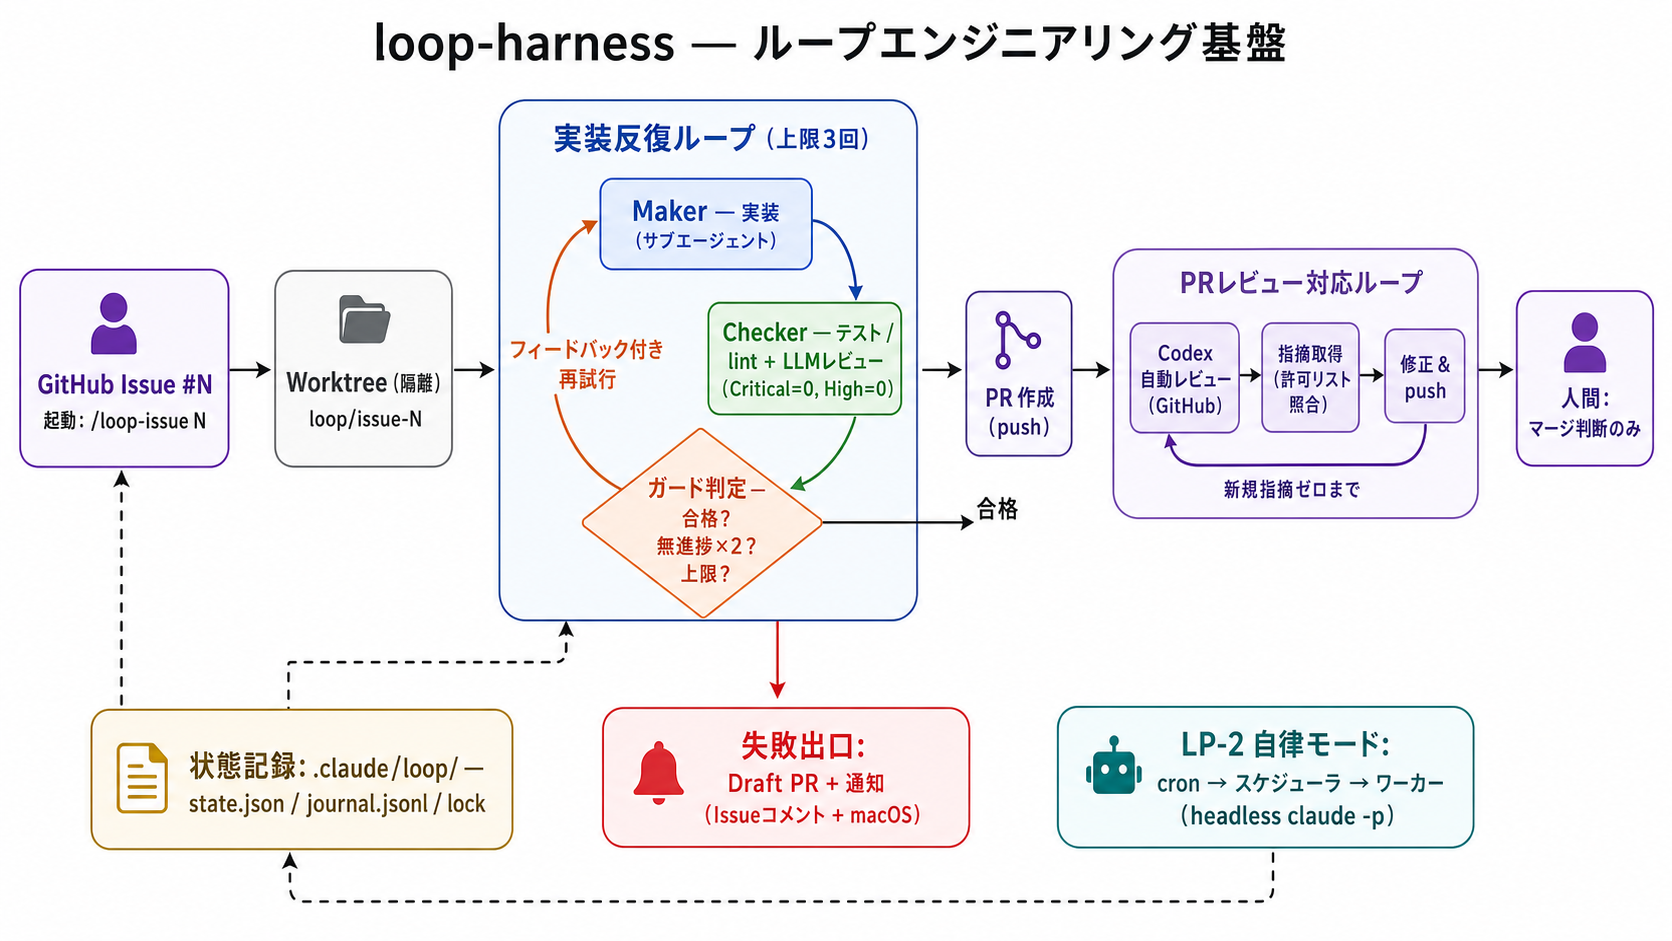
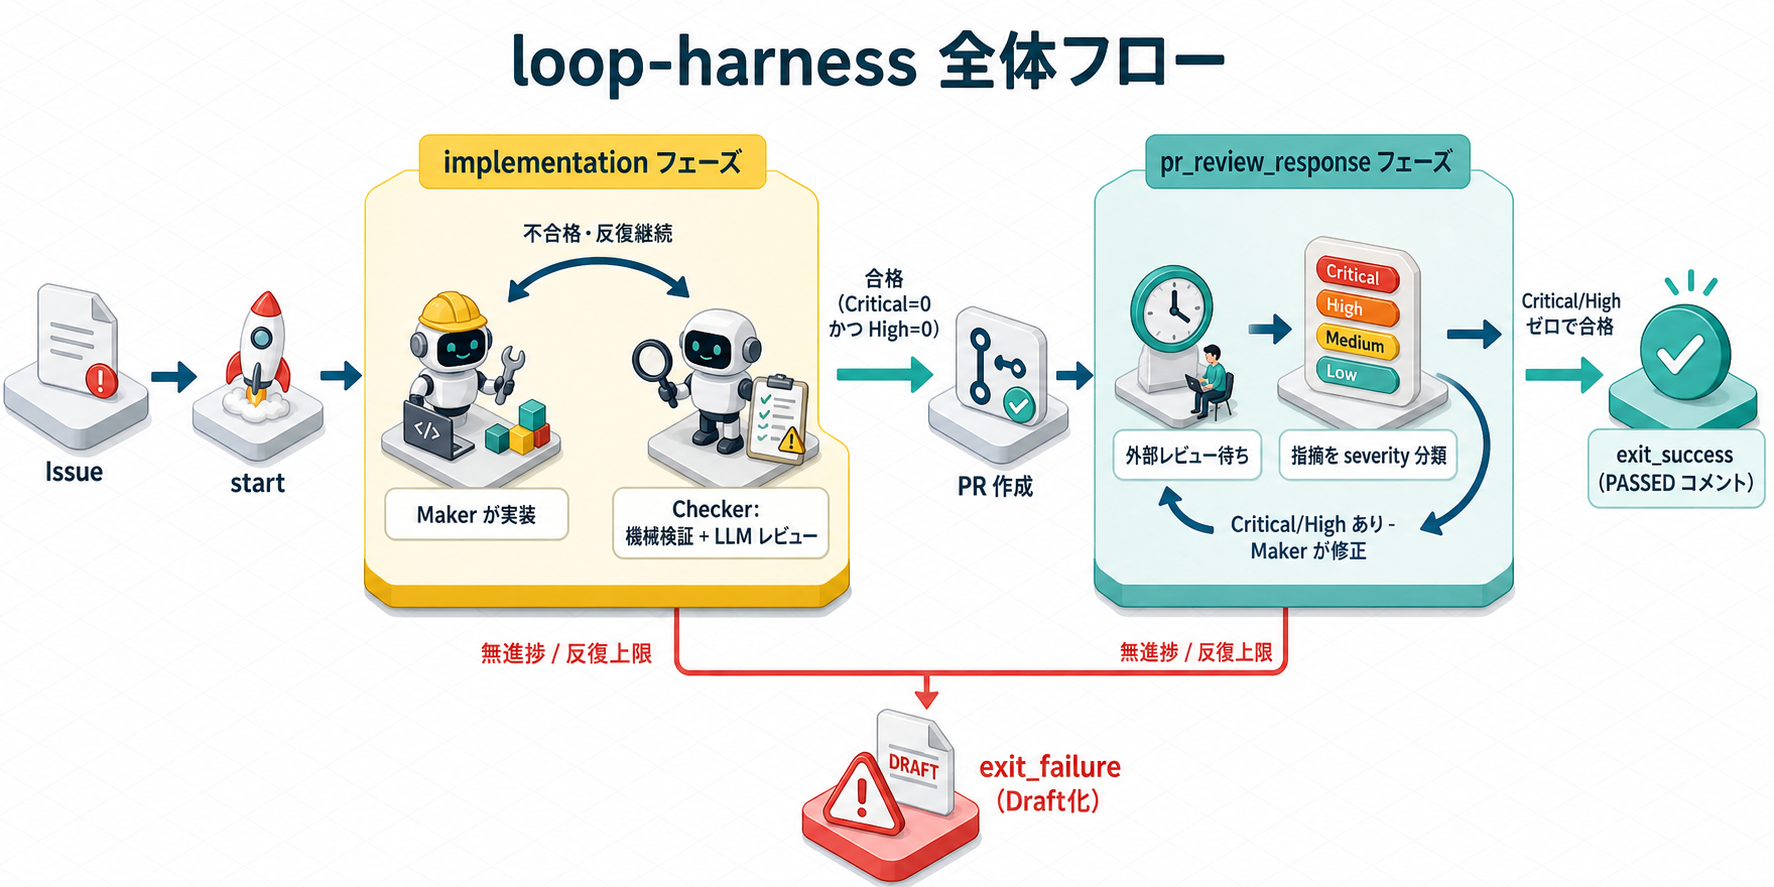
docs(loop-harness): LP-1 利用者ガイドを新設し図解 4 枚を刷新
- docs/guides/loop-harness.md を新設（LP-1 中心の利用者向けガイド、
  Mermaid 図解 5 点。コマンド例・設定キーは実装と突合済み）
- docs/assets/loop-harness/*.png 4 枚を最新仕様（PR #228/#229/#230 反映）で
  刷新。共通スタイルプロンプト（Infographic/Isometric/Colorful）を新設し
  docs/assets/diagram-style-prompt.md として管理
- packages/loop-harness/README.md の陳腐化修正（pgrep → is-alive、
  ガイド導線、LP-2 experimental 注記）
- CHANGELOG（Unreleased/Added）更新

Changed region(s): [[0.0, 0.0, 1.0, 1.0], [0.0622, 0.7914, 0.311, 0.9132], [0.3732, 0.7914, 0.4043, 0.8523]]

diff --git a/docs/guides/loop-harness.md b/docs/guides/loop-harness.md
@@ -1,0 +1,217 @@
+---
+codd:
+  node_id: "design:loop-harness-guide"
+  kind: design
+  status: active
+  depends_on:
+    - id: "design:loop-harness"
+      relation: references
+    - id: "design:loop-harness-core"
+      relation: references
+    - id: "design:loop-harness-cli"
+      relation: references
+    - id: "design:loop-harness-pr-review"
+      relation: references
+  owner: ai-orchestra
+---
+
+# loop-harness 利用者ガイド
+
+**更新日**: 2026-07-15
+`/loop-issue` スキル（LP-1）で GitHub Issue を自動消化するための利用者向けガイド。内部実装の詳細は設計書を参照する。
+
+---
+
+## 1. これは何か
+
+`loop-harness` は、GitHub Issue 番号を渡すと、実装 → 機械チェック（テスト/lint）→ LLM レビュー → 修正反復 → PR 作成 → 外部 bot レビュー対応までを自動で回す仕組みである。
+
+- 実装するのは Maker（agent-routing で選定されたサブエージェント）
+- 合否を判定するのは Checker（機械検証 + LLM レビューの二層。Critical/High がゼロになるまで反復）
+- PR 作成後は外部レビュー bot（Codex 等）の指摘を検知し、Critical/High があれば Maker が対応し再レビューを待つ
+- **人間の関与はマージ判断のみ**。ループ自身は auto-merge を行わない
+
+このガイドで扱うのは LP-1（`/loop-issue` スキル、セッション内伴走型）。常駐無人運用の LP-2 は 6 節で触れる制約付きの experimental 機能であり、通常はこのガイドの対象外。
+
+---
+
+## 2. ループの仕組み（図解）
+
+### ① 全体フロー
+
+```mermaid
+flowchart TD
+    A[Issue] --> B["start"]
+    B --> C1
+
+    subgraph C[implementation フェーズ]
+        C1[Maker が実装] --> C2["Checker: 機械検証 + LLM レビュー"]
+        C2 -- 不合格・反復継続 --> C1
+    end
+
+    C -- "合格（critical=0 かつ high=0）" --> D[PR 作成]
+    D --> E1
+
+    subgraph E[pr_review_response フェーズ]
+        E1[外部レビュー待ち] --> E2[指摘を severity 分類]
+        E2 -- critical/high あり --> E3[Maker が修正] --> E1
+    end
+
+    E -- critical/high ゼロで合格 --> F["exit_success（PASSED コメント）"]
+    C -- 無進捗/反復上限 --> G["exit_failure（Draft 化）"]
+    E -- 無進捗/反復上限 --> G
+```
+
+`implementation` フェーズは機械検証（`pytest`/`ruff` 等）と LLM レビュー（`code-reviewer` + パスパターンで追加選定、最大 2 名）の両方が Critical=0・High=0 になるまで、Maker と Checker を交互に反復する。合格すると PR を作成し `pr_review_response` フェーズへ進む。
+
+### ② 状態機械
+
+```mermaid
+stateDiagram-v2
+    [*] --> pending: start --issue N
+    pending --> running: run_maker 完了 → complete
+    running --> running: 反復（無進捗/上限未達）
+    running --> waiting_external: advance_phase（PR 作成）
+    waiting_external --> running: push_required（Maker が指摘対応）
+    waiting_external --> passed: critical/high ゼロで合格
+    running --> failed: 無進捗2回 または max_iterations(3) 到達
+    waiting_external --> failed: 同上
+    running --> stopped: 安全停止（push_guard_violation 等）
+    waiting_external --> stopped: 安全停止 + external_reviewer_unavailable
+    failed --> running: resume --reset-counters
+    stopped --> running: resume --reset-counters
+    passed --> [*]
+
+    note right of pending
+      pending/running/waiting_external から
+      attach でも復旧可能（lease 再取得のみ。
+      状態そのものは変化しない）
+    end note
+```
+
+`status` は `pending`（初回 Maker 未実行）/ `running`（反復中）/ `waiting_external`（外部レビュー待ち）/ `passed`（合格）/ `failed`（ガード到達）/ `stopped`（安全停止）の 6 種類。`attach` はクラッシュ・セッション断絶後に別の呼び出し元が lease を再取得して続行する経路（`pending` も対象。以前は `running`/`waiting_external` のみだったが復旧範囲が広がった）、`resume --reset-counters` は `failed`/`stopped` から人間判断でガードカウンタをリセットして再挑戦する経路。両者は対象状態が排他的で混同しない。
+
+### ③ two-phase プロトコル
+
+```mermaid
+sequenceDiagram
+    participant O as オーケストレーター
+    participant L as loop_step (Python)
+    participant T as Task (Maker/Checker)
+
+    O->>L: propose --lease-token
+    L-->>O: action, action_id, state_version
+    O->>T: Task(subagent_type=..., ...)
+    T-->>O: 結果要約
+    O->>L: complete --action-id --state-version --result --lease-token
+    L-->>O: ok, next: call propose again
+    Note over O,L: 長時間の反復中は heartbeat で lease を延命する
+```
+
+`loop_step` は「次に何をすべきか」を決定するだけで、実行そのもの（Task 起動）は常にオーケストレーター側が行う分業になっている。これにより agent-routing / audit 等の既存 hook 基盤をそのまま素通りできる。
+
+### ④ PR レビュー反復
+
+```mermaid
+flowchart TD
+    A[wait_external_review] --> B["pre-rebaseline drain<br/>直前反復中の指摘の取りこぼし防止"]
+    B --> C["severity 分類<br/>未分類は fail-safe で high"]
+    C -->|critical/high が1件以上| D["Maker へ差し戻し<br/>修正反復"]
+    D --> A
+    C -->|"critical/high ゼロ（medium/low のみ or 指摘なし）"| E[合格]
+    E --> F["成功コメントに<br/>non_blocking_open（残存 medium/low）を列挙"]
+```
+
+外部レビューの合格基準は「unresolved な Critical/High がゼロ」であること。Low/Medium は非ブロッキングであり、対応しなくても合格を妨げない（残存分は成功コメントに一覧として残る）。無進捗判定も Critical/High（blocking）のシグネチャ集合が前回反復と完全一致した場合のみ発生する。
+
+### ⑤ 停止判定
+
+```mermaid
+flowchart TD
+    A[Checker 結果] --> B{"① 合格判定<br/>critical=0 かつ high=0"}
+    B -- 合格 --> C["成功出口<br/>advance_phase / exit_success"]
+    B -- 不合格 --> D{"② 無進捗判定<br/>blocking シグネチャ集合が前回と完全一致"}
+    D -- 無進捗 --> E["exit_failure<br/>Draft 化"]
+    D -- 進捗あり --> F{"③ 反復上限判定<br/>max_iterations(既定3) 到達"}
+    F -- 到達 --> E
+    F -- 未到達 --> G[次の run_maker へ継続]
+```
+
+この 3 段階評価とは別に、push 直前のブランチ検証・repo-identity 照合、または他ホストの生存 lease 検知に違反した場合は `exit_failure` ではなく **安全停止（`stopped`）** に遷移する。安全停止ではリポジトリへの書き込み（push/PR 作成・更新）を一切行わず、人間への引き継ぎに徹する。外部レビュアーが利用不可（CodeRabbit のレートリミット等で代替経路も無い場合）と判定されたときも同様に安全停止する。
+
+---
+
+## 3. 前提セットアップ
+
+```bash
+orchex install loop-harness --project /path/to/project
+```
+
+`loop-harness` は `audit` / `quality-gates` / `git-workflow` / `agent-routing` に依存する（未導入なら合わせて導入される）。
+
+**`pr_review.reviewer_allowlist` の設定は必須**。未設定（またはキー自体が無い、空リスト）の場合、`wait_external_review` の直前で fail-closed に停止する。導入プロジェクトの `.claude/config/loop-harness/loop-harness.local.yaml` に、実際に使う外部レビュー bot を明記する。
+
+```yaml
+# .claude/config/loop-harness/loop-harness.local.yaml
+pr_review:
+  reviewer_allowlist:
+    - app_slug: "chatgpt-codex-connector" # GitHub App slug（判明していれば最優先）
+      login: "chatgpt-codex-connector[bot]" # フォールバック照合用
+      type: "Bot"
+      author_association: ["NONE"]
+  checkrun_allowlist: [] # 任意。check-run 経由のフォールバック検知を使う場合のみ
+```
+
+あわせて、対象リポジトリに外部レビュー bot（Codex の GitHub 連携等）が実際に設定済みであることを確認する。bot が動いていない状態で `/loop-issue` を実行すると、`pr_review_response` フェーズが `pr_review.timeout_seconds`（既定 3600 秒）待った末に無進捗として扱われる。
+
+---
+
+## 4. 使い方
+
+```text
+/loop-issue 42                         # 新規 Issue を開始
+/loop-issue --attach <loop_id>         # クラッシュ・セッション断絶後に再接続
+/loop-issue --resume <loop_id>         # failed / stopped から人間判断で再挑戦
+```
+
+起動後は 2 節の図解どおり、実装 → 機械検証 + LLM レビュー → PR 作成 → 外部レビュー対応まで自動で進行する。進行中、オーケストレーターは Maker/Checker の生出力をメインコンテキストへ転載せず、要約と state/journal 参照だけをやり取りする。
+
+**人間の関与ポイントは PR のマージ判断のみ**。ループは auto-merge を付与しないため、`exit_success`（PASSED コメント）到達後に人間が内容を確認してマージする。Critical/High の指摘は無人反復の中で必ず対応必須（見送り不可）として扱われるため、これらを人間が代わりに見送る運用は設計上想定されていない。
+
+---
+
+## 5. 止まったときの復旧
+
+現在の状態は `loop_status.py` で確認できる。
+
+```bash
+python3 packages/loop-harness/scripts/loop_status.py list [--status <phase>] [--json]
+python3 packages/loop-harness/scripts/loop_status.py show --loop-id <id> [--journal-lines N] [--full-journal]
+```
+
+| 状況 | 復旧方法 |
+| --- | --- |
+| セッションがクラッシュ・断絶した（`pending`/`running`/`waiting_external` のまま） | `/loop-issue --attach <loop_id>`。`pending` の段階での断絶でも復旧できる |
+| ガード到達で正規に `failed`／安全停止で `stopped` になった | 原因を確認・解消したうえで `/loop-issue --resume <loop_id>`（ガードカウンタをリセットして再挑戦） |
+| 完了済みループの整理 | `python3 packages/loop-harness/scripts/loop_status.py purge [--force] [--dry-run] [--yes]`。`running`/`waiting_external` は常に保護され、既定では `passed`/`failed` かつ 30 日経過分のみが対象 |
+
+`exit_failure` で終了した場合、Draft 化された PR と失敗理由を記載した Issue コメントがそのまま残る。内容を確認したうえで手動対応するか、原因を解消してから `resume` する。
+
+---
+
+## 6. 既知の制約
+
+- **LLM レビューは非決定的**。判定が割れるケースは常に安全側（High）に倒す fail-safe 設計になっている
+- **外部 bot の応答性・レートリミットに依存**する。bot が利用不可と判定されると `external_reviewer_unavailable` として安全停止し、人間に引き継がれる
+- **LP-2（常駐無人運用）は experimental**。Maker/Checker のプロセス隔離が完全ではなく（Issue #211 で対応予定）、push 多層防御は同一 OS ユーザー内の完全性までは保証しない。信頼できるリポジトリでのみ、自己責任で使用すること
+
+---
+
+## 7. さらに詳しく
+
+- [`docs/design/loop-harness.md`](../design/loop-harness.md) — 基本設計（全体アーキテクチャ・ループ定義スキーマ）
+- [`docs/design/loop-harness-core.md`](../design/loop-harness-core.md) — 状態機械・ロック等コア詳細設計
+- [`docs/design/loop-harness-cli.md`](../design/loop-harness-cli.md) — CLI（`loop_step`/`loop_driver`/`loop_scheduler`/`loop_status`）契約
+- [`docs/design/loop-harness-pr-review.md`](../design/loop-harness-pr-review.md) — PR レビュー対応 / `/loop-issue` スキル詳細設計
+- [`docs/evaluation/loop-harness.md`](../evaluation/loop-harness.md) — 評価セット
+- [`packages/loop-harness/README.md`](../../packages/loop-harness/README.md) — パッケージ構成・config キー一覧

diff --git a/docs/assets/diagram-style-prompt.md b/docs/assets/diagram-style-prompt.md
@@ -1,0 +1,68 @@
+# 図解画像 共通スタイルプロンプト
+
+**このリポジトリの図解画像（docs/assets/**）を生成・刷新する際は、必ず本プロンプトを画像生成の指示に併用すること。**
+目的は、リポジトリ内の図解スタイルの統一。
+
+## ビジュアルスタイル: Infographic / Isometric / Colorful
+
+### 配色
+
+- 背景: ライトグレー、または薄いグリッド。
+- 主文字色: #FF6B6B (Red)
+- アクセントカラー: #4ECDC4 (Teal)、#FFE66D (Yellow)、#1A535C (Dark Blue)
+- 配色はテーマの個性を伝えつつ、企業資料としての読みやすさと落ち着きを保つ
+
+### タイポグラフィ
+
+- 見出し: 丸みを帯びたサンセリフ。
+- 本文: 可読性を優先した本文書体
+- スタイル: 明確な階層構造, ラベル。
+- 数値表現: 重要な数値は比較しやすく、情報の軸として見せる
+
+### レイアウトグリッド
+
+- 構造化されたフロー, 相互接続された要素, 明確なパス
+- 余白を情報の品位と視認性を高める要素として扱う
+- 単調になりすぎないよう、整列と余白の中に穏やかなリズムを持たせる
+- 複数ページ一覧、コンタクトシート、サムネイルグリッドのような見せ方にはしない
+
+### イラストスタイル
+
+- 3Dアイソメトリック・ベクターイラストを用いた、データ視覚化へのフォーカス。
+- 等角投影グラフ, 円グラフ, フローチャートのコネクタ。
+- 質感やパターンは控えめに使い、主題を奪わない
+- 微細な人々（マイクロ・ピープル）, 浮遊するプラットフォーム, アイコン。
+- 図版はスタイルの個性を伝えつつ、主題の理解を支える役割に留める
+- 企業資料として不適切な象徴性の強い意匠は避ける
+
+### データビジュアライゼーション
+
+- 表、図、要点を秩序立てて配置する
+- 強調は必要最小限にし、読み取りの速さを優先する
+- 図表はスタイルの個性を残しながらも、要点が素早く伝わる見せ方にする
+- ラベル、見出し、数値は一目で関係が分かるように整える
+
+### 含めるスライドタイプ
+
+- タイトルスライド
+  - 上部にタイトル、周辺に小さな補助情報、中央または右側に象徴ビジュアルを置いてよい
+- 概要スライド
+  - 左に大きな要点見出し、右に要約文や補足データを置いてよい
+- 比較表スライド
+  - 上部に比較テーマ、中央に比較表、下部に短い示唆を置いてよい
+- データ整理スライド
+  - 上段に主要数値、中段にチャート、下段に要点や注記を置いてよい
+- フローまたは構造整理スライド
+  - 左右または上下の流れで関係性を整理し、接続線や矢印は最小限に抑えてよい
+- 出力時は各ページの内容に応じて上記のうち適切な1種類を選び、入力資料またはユーザーが指定した構成・枚数に沿って、必要な枚数のスライドを生成する
+
+### トーン & ボイス
+
+- 情報的
+- 遊び心
+- 明快
+- プロフェッショナル
+- モダン
+- 画面全体に節度ある存在感と洗練を持たせる
+- 主題よりもスタイルが前に出すぎないようにする
+- 目立ちすぎないが印象に残る見せ方を優先する

diff --git a/CHANGELOG.md b/CHANGELOG.md
@@ -18,6 +18,7 @@ The format is based on [Keep a Changelog](https://keepachangelog.com/en/1.1.0/).
 
 ### Added
 
+- **`loop-harness`: 利用者ガイド（図解つき）を追加**: `docs/guides/loop-harness.md` に `/loop-issue` の使い方・ループの仕組み（全体フロー・状態機械・PR レビュー反復・停止判定の Mermaid 図解）をまとめた。`packages/loop-harness/README.md` から導線を追加し、cron セットアップの記述を `is-alive`（pidfile/flock）方式に更新した。
 - **`meta-harness`: `target=skill:<slug>` の探索・評価に対応**: skill ごとの scenario suite、target 別 frontier、composition closure に限定した安全な overlay、`handoff` / `issue-create` の train・holdout 評価を追加。skill-evolution の trigger 出力から `orchex meta propose` へ疎結合で誘導する。
 - **`git-workflow`: `/review-respond` スキルを追加**: カレントブランチの PR に付いた bot レビュー指摘（CodeRabbit/Codex 等）を `pr_review_threads.py` で取得し、分類・修正・push・返信・スレッド解決までを単発実行で自動対応する。
 
